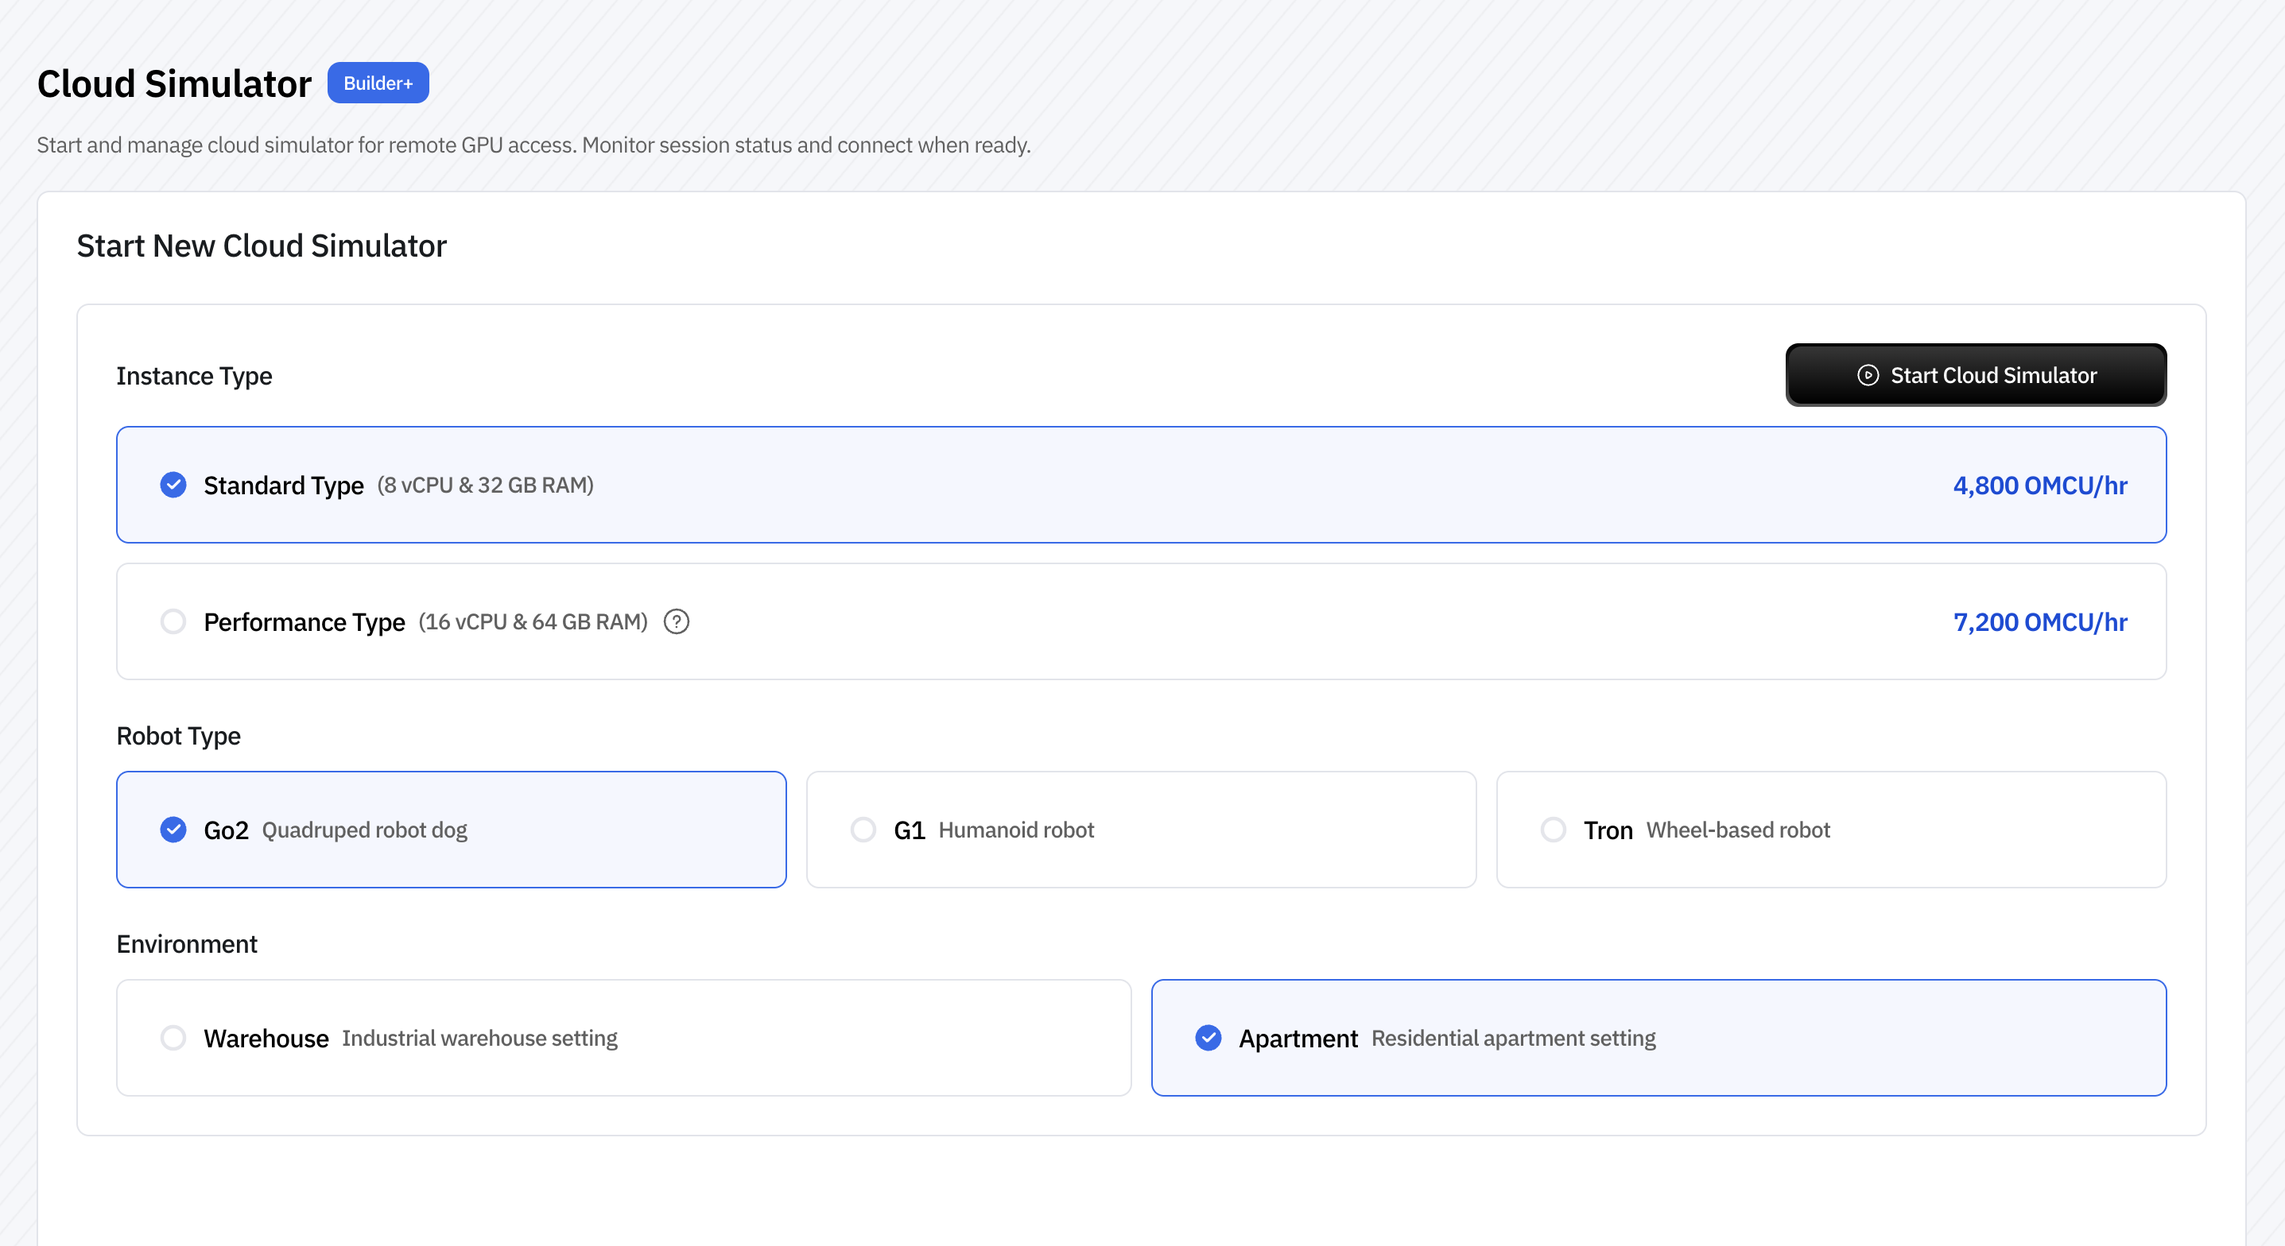
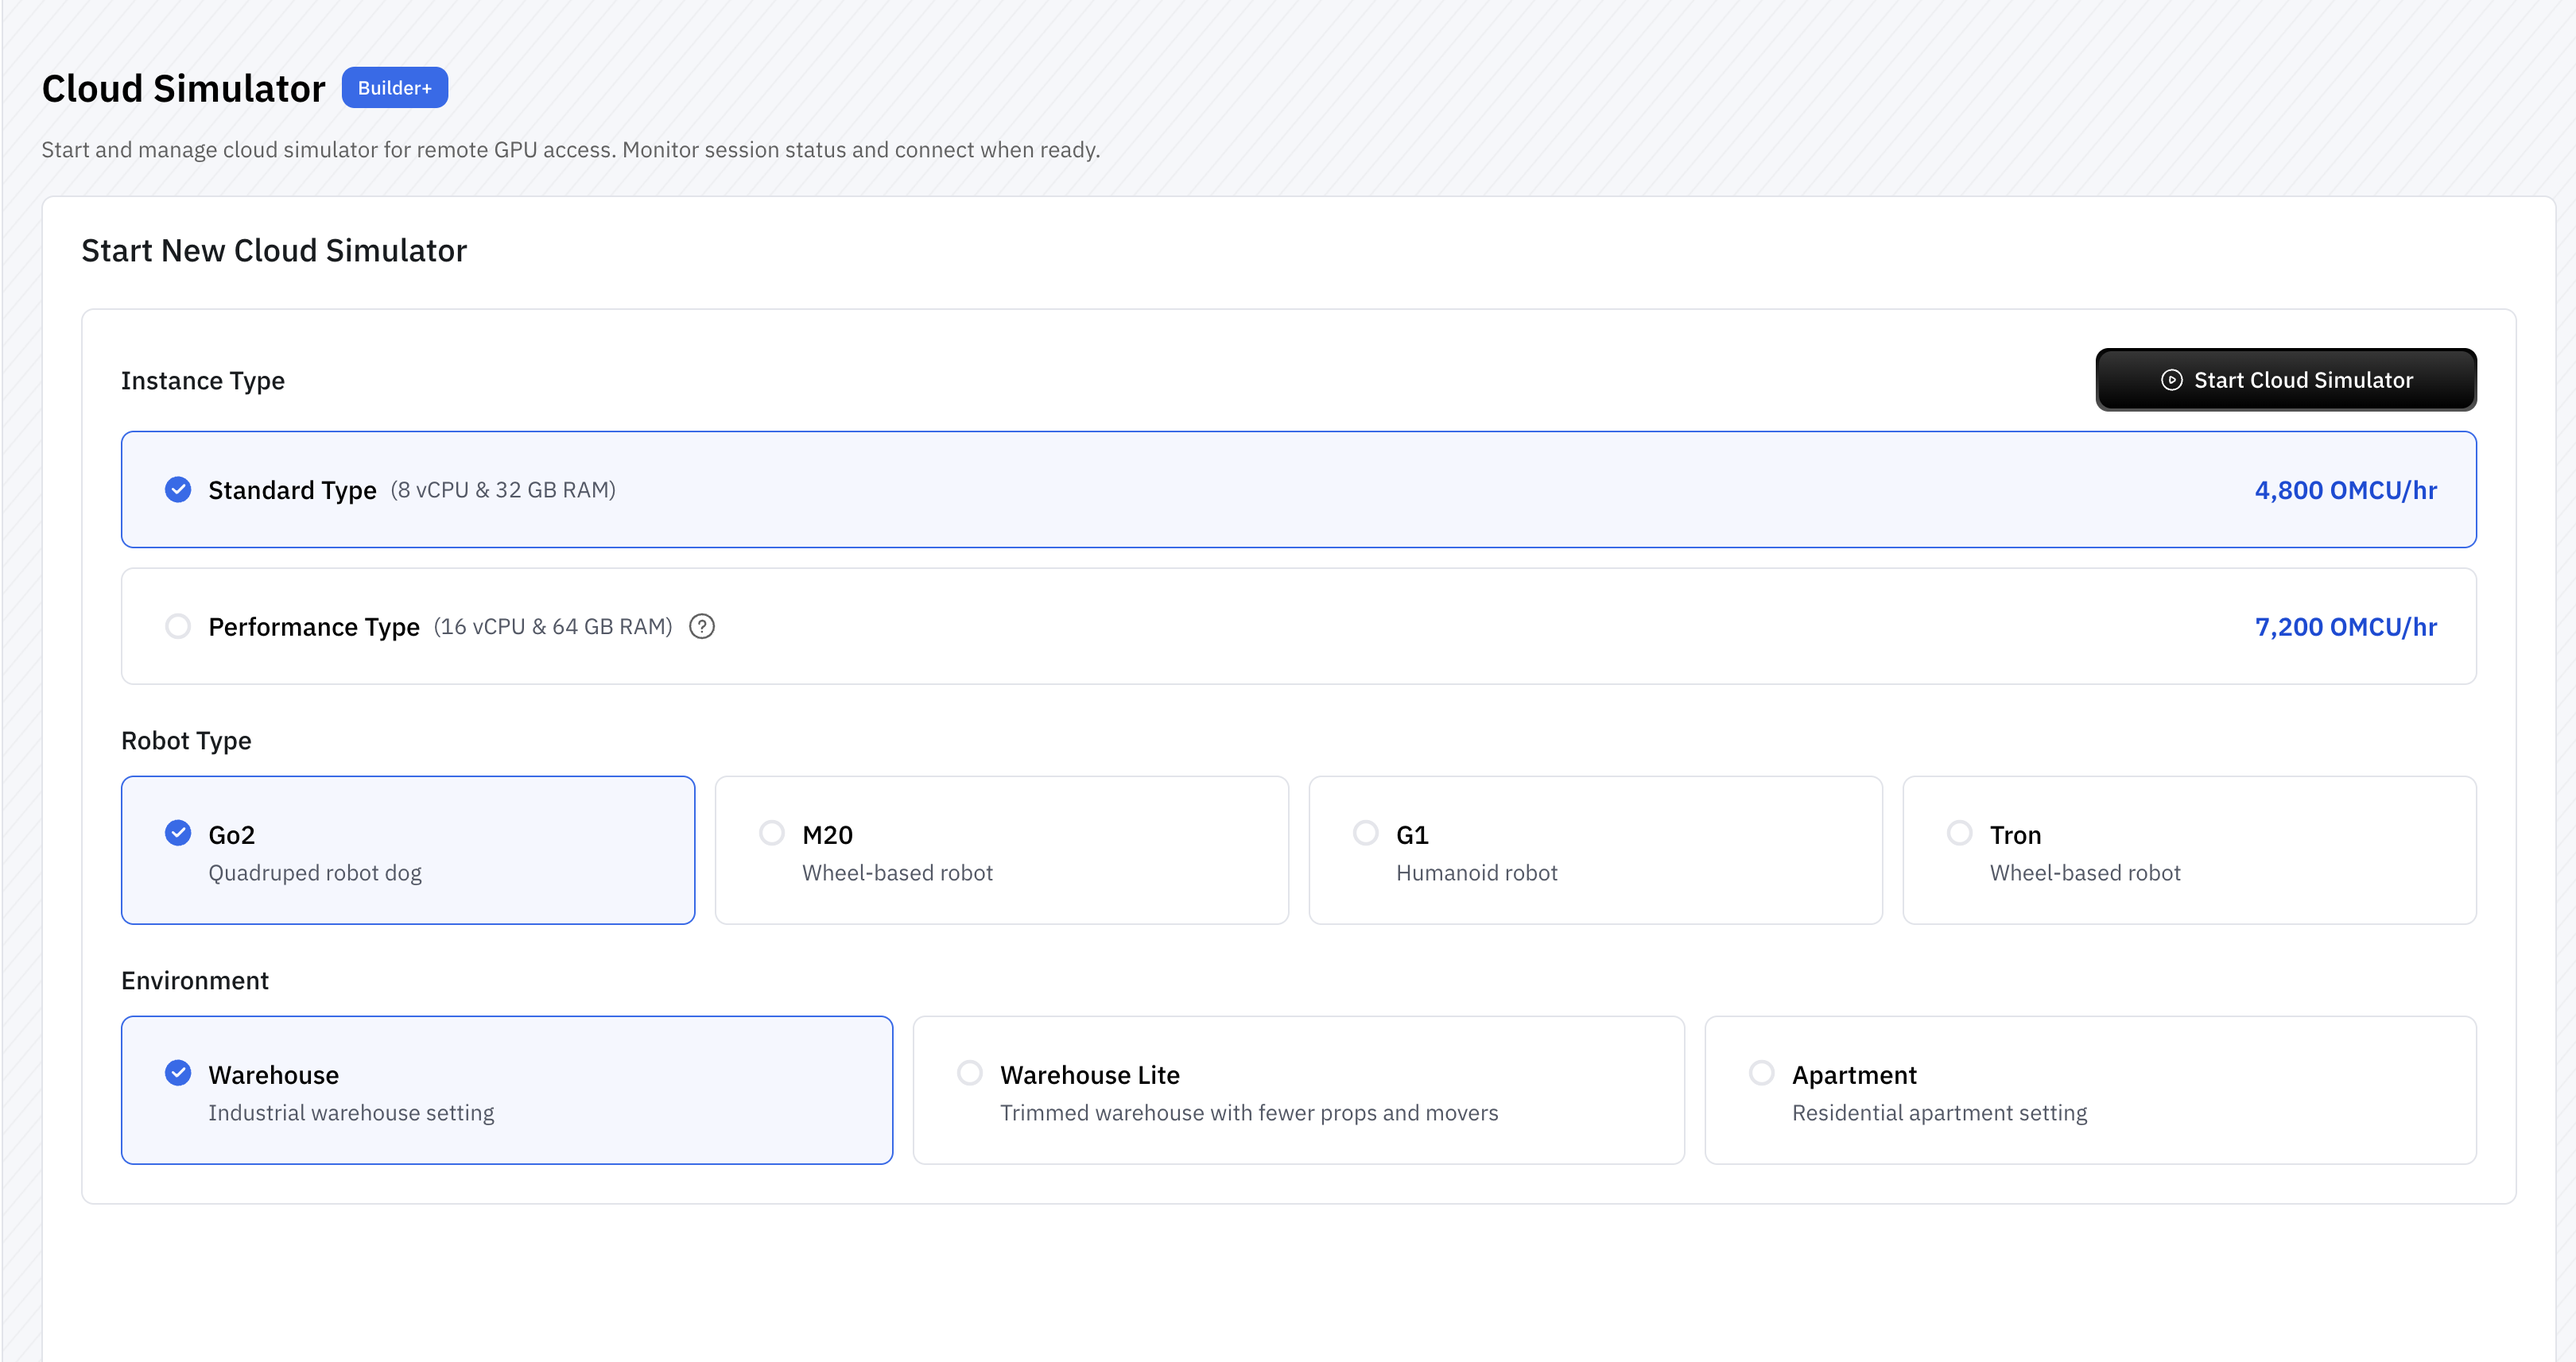
update cloud sim docs to reflect new features (#2655)
* update cloud sim docs to reflect new features

* add xbox controller reference

* add M20 Pro to the list

* update assets

* update assets

* add new assets

* clear irrelevant docs

* update dscription with assets reference in cloud sim docs

* revert irrelevant changes

diff --git a/docs/simulators/cloud-isaac-sim.md b/docs/simulators/cloud-isaac-sim.md
@@ -6,13 +6,18 @@ icon: robot
 
 ## Cloud Isaac Sim Developer Walkthrough
 
-Cloud Isaac Sim enables you to run robot simulations on managed cloud infrastructure, fully integrated with OM1. This guide walks you through launching an instance and connecting your OM1 setup.
+Cloud Isaac Sim enables you to run robot simulations on managed cloud infrastructure, fully integrated with OM1. One of the biggest challenges in robotics development is that the robot isn't always available when you need it — someone else may be using it, you may be working remotely, or you may just want to validate an idea before deploying to real hardware. The Cloud Simulator lets you go from zero setup to an autonomous robot in a few minutes, entirely from your browser.
+
+This guide has two parts:
+
+- **[Part 1 — Autonomy in the Portal](#part-1-autonomy-in-the-portal)**: launch a simulated robot, build a map with SLAM, create an autonomous patrol, monitor it remotely, and configure automatic charging — no code required.
+- **[Part 2 — Connecting OM1](#part-2-connecting-om1)**: run the OM1 runtime against your cloud simulator instance, either in the cloud or from your local machine.
 
 ## Prerequisites
 
 - OpenMind Portal account on **Builder plan** or higher (required for Cloud Simulator access)
 - API key (found in your portal)
-- OM1 codebase built (`make build`)
+- OM1 codebase built (`make build`) — only needed for [Part 2](#part-2-connecting-om1)
 
 ## Cost & Billing
 
@@ -20,12 +25,17 @@ Cloud Simulator usage is billed in OMCU (OpenMind Compute Units). Billing begins
 
 A **Builder plan** or higher is required to access the Cloud Simulator. Check your OMCU balance and plan in the [OpenMind Portal](https://portal.openmind.com) dashboard before starting.
 
-## Step 1: Launch a Cloud Simulator Instance
+## Part 1 — Autonomy in the Portal
+
+Everything in this part runs from the browser. You'll launch a simulated robot, give it an understanding of its surroundings with SLAM, set up an autonomous patrol, watch it operate remotely, and configure it to charge itself — all without physical hardware or writing any code.
+
+### Step 1: Launch a Simulator Session
 
 1. Log in to the [OpenMind Portal](https://portal.openmind.com)
 2. Navigate to **Cloud Simulator** from the sidebar
+3. Select the instance type, robot model and choose the environment you'd like to work in, then launch the simulator
 
-### Instance Types
+#### Instance Types
 
 Choose based on your simulation workload:
 
@@ -36,18 +46,20 @@ Choose based on your simulation workload:
 
 ![ ](../.gitbook/assets/cloud-isaac-sim-assets/select_instance_and_env.png)
 
-### Supported Robots
+#### Supported Robots
 
 - Unitree Go2
 - Unitree G1
 - LimX Tron
+- Deep Robotics M20 Pro
 
-### Available Environments
+#### Available Environments
 
 - Warehouse
+- Warehouse Lite
 - Apartment
 
-### Launch Time
+#### Launch Time
 
 The instance goes through the following stages before it is ready:
 
@@ -71,13 +83,11 @@ The instance is ready when the status changes to **Running**.
 
 ![ ](../.gitbook/assets/cloud-isaac-sim-assets/gpu_unavailable.png)
 
-## Step 2: Access your Active Cloud Isaac Sim Session
-
-View your running session from the portal dashboard.
+Open your running session from the portal dashboard.
 
 ![ ](../.gitbook/assets/cloud-isaac-sim-assets/session.png)
 
-Click on Open Session. The simulator view will reflect the robot you selected when launching the instance:
+The simulator view reflects the robot you selected when launching the instance:
 
 Unitree Go2:
 
@@ -87,14 +97,83 @@ Unitree G1:
 
 ![ ](../.gitbook/assets/cloud-isaac-sim-assets/cloud_isaac_sim_g1.png)
 
-
 LimX Tron:
 
 ![ ](../.gitbook/assets/cloud-isaac-sim-assets/cloud_isaac_sim_tron.png)
 
-## Step 3: Run OM1 with Cloud Simulator
+Deep Robotics M20 Pro:
 
-Two options are available once your instance is running:
+![ ](../.gitbook/assets/cloud-isaac-sim-assets/cloud_isaac_sim_M20Pro.png)
+
+### Step 2: Explore & Teleoperate
+
+Before building autonomy, confirm everything is working as expected. From the portal you have access to the **live camera feed**, **robot status**, and **manual teleoperation controls**.
+
+Drive the robot around to verify that it's connected and responding correctly. This is also a good way to familiarize yourself with the environment before creating autonomous behaviors.
+
+> **Tip**: You can also drive the robot with an **Xbox controller**. Pair the controller to your computer over Bluetooth and use it to teleoperate the robot in the simulator.
+
+### Step 3: Build a Map with SLAM
+
+Next, give the robot an understanding of its surroundings. Open the **Map view** tab and start **SLAM**, which lets the robot build a map while it explores the environment.
+
+As the robot moves, it continuously observes its surroundings and constructs the map in real time. SLAM produces a live **3D point cloud** of the space, colored by height, that you can rotate and zoom to inspect:
+
+![ ](../.gitbook/assets/cloud-isaac-sim-assets/3D_slam_map.png)
+
+The point cloud is also flattened into a **2D navigation map** — an occupancy grid showing walls and obstacles. This is the navigation-ready map used for autonomous tasks like patrols and navigation. Once **Navigation** mode is active, the map's **Set Goal** and **Localize** tools become available, and the robot's live position is shown on the map:
+
+![ ](../.gitbook/assets/cloud-isaac-sim-assets/2D_slam_map.png)
+
+### Step 4: Create an Autonomous Patrol
+
+Instead of manually driving the robot every time, open the **Route Planner** tab and create a **patrol route** by placing waypoints throughout the environment.
+
+1. Click **+ New Route** to start a fresh route.
+2. Toggle **Add Waypoints** and click points across the map to lay out the path. Use smooth turns so the robot can navigate naturally. **Undo Last** removes the most recent waypoint, and the node/edge count updates as you build. You can also **Import** or **Export** a route to reuse it later.
+3. When you're happy with the path, click **Deploy**.
+
+The robot then takes over and begins following the route autonomously, navigating between each waypoint while continuously localizing itself within the map.
+
+![ ](../.gitbook/assets/cloud-isaac-sim-assets/patrol.png)
+
+### Step 5: Monitor the Patrol
+
+While the robot carries out its patrol, monitor everything directly from the portal — the live camera stream, robot status, and patrol progress. This makes it easy to remotely verify that everything is operating as expected without being physically present.
+
+### Step 6: Configure Automatic Charging
+
+Autonomous robots also need to manage their battery. Instead of waiting for an operator to intervene, configure a **battery threshold** that automatically sends the robot back to its charging station.
+
+Set the minimum battery level. Once the battery drops below that threshold, the robot automatically:
+
+1. Pauses its patrol
+2. Returns to the docking station
+3. Re-localizes if needed
+4. Docks and charges
+
+Once charged, it's ready to continue operating. This enables long-running deployments with minimal manual intervention.
+
+> **Note**: Automatic charging is currently supported on **Unitree Go2 only**.
+
+### Step 7: Automatic Localization
+
+If the robot starts up again or loses localization, it can automatically determine its position on the existing map before continuing its mission. This removes another manual step from the deployment process and helps keep operations running smoothly.
+
+### Cleaning Up
+
+When you're finished with your simulation:
+
+1. Return to the Cloud Simulator dashboard
+2. Click **Delete Instance**
+
+![ ](../.gitbook/assets/cloud-isaac-sim-assets/delete-instance.png)
+
+3. Confirm the deletion — this stops billing and frees cloud resources
+
+## Part 2 — Connecting OM1
+
+Part 1 runs the robot's autonomy entirely from the portal. If you want to drive the simulator with the **OM1 runtime** — for example to test your own agent behaviors, inputs, and actions — connect OM1 to a running instance using one of the two options below.
 
 ### Option A: Cloud VS Code
 
@@ -103,6 +182,7 @@ Access a full VS Code environment running in the cloud with OM1 pre-configured.
 ![ ](../.gitbook/assets/cloud-isaac-sim-assets/cloud-vscode.png)
 
 From here, you can:
+
 - Edit and run OM1 code directly in the cloud
 - Execute `make run` commands without local hardware
 - Test and debug your robot behaviors
@@ -119,18 +199,7 @@ Run OM1 on your local machine and connect to the cloud simulator:
 CONFIG=unitree_go2_autonomy USE_SIM=true make dev
 ```
 
-## Cleaning Up
-
-When you're finished with your simulation:
-
-1. Return to the Cloud Simulator dashboard
-2. Click **Delete Instance**
-
-![ ](../.gitbook/assets/cloud-isaac-sim-assets/delete-instance.png)
-
-3. Confirm the deletion — this stops billing and frees cloud resources
-
 ## What's Next?
 
-- Explore [unitree_go2_modes_cloud config](https://github.com/OpenMind/OM1/blob/main/config/unitree_go2_modes_cloud.json5) to try multi modes in cloud sim
-- Read the [Configuration Guide](../developing/3_configuration.md) to modify inputs, actions, and prompts in `cloud_sim.json5`
+- Explore the [unitree_go2_modes config](https://github.com/OpenMind/OM1/blob/main/config/unitree_go2_modes.json5) to try multi-mode behaviors (including SLAM and Patrol) in the cloud sim
+- Read the [Configuration Guide](../developing/3_configuration.md) to modify inputs, actions, and prompts in your config
